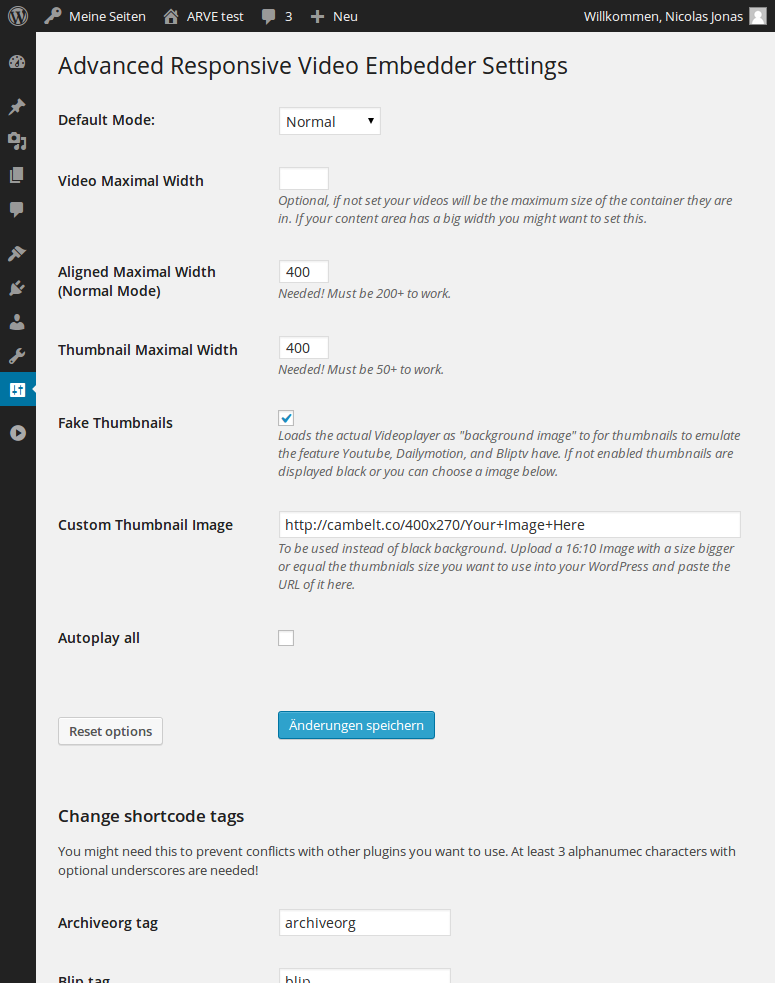
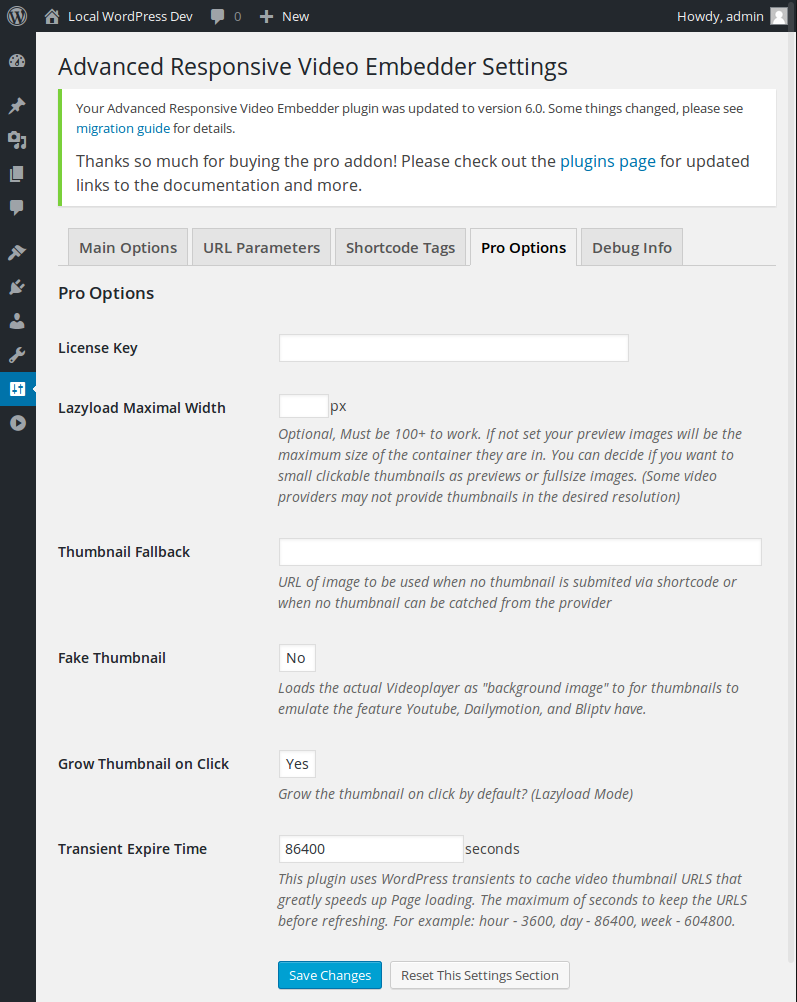
add grow ...

diff --git a/admin/advanced-responsive-video-embedder-admin.js b/admin/advanced-responsive-video-embedder-admin.js
@@ -21,7 +21,9 @@
 			'autoplay'     : '',
 			'aspect_ratio' : '',
 			'maxwidth'     : '',
-			'parameters'   : ''
+			'parameters'   : '',
+			'thumbnail'    : '',
+			'grow'         : '',
 		};
 
 		var shortcode = '[' + $('#arve-provider').val();
@@ -157,7 +159,8 @@
 		$('#arve-id').val( response.videoid );
 	});
 
-	$( '#arve-url, #arve-provider, #arve-id, #arve-maxwidth, #arve-mode, #arve-align, #arve-autoplay, #arve-aspect_ratio, #arve-parameters' ).bind( 'keyup mouseup change', function() {
+	$( '#arve-url, #arve-provider, #arve-id, #arve-maxwidth, #arve-mode, #arve-align, #arve-autoplay, #arve-aspect_ratio, #arve-parameters, #arve-grow, #arve-thumbnail' )
+		.bind( 'keyup mouseup change', function() {
 
 		var shortcode = create_shortcode();
 

diff --git a/public/class-advanced-responsive-video-embedder-public.php b/public/class-advanced-responsive-video-embedder-public.php
@@ -294,6 +294,7 @@ class Advanced_Responsive_Video_Embedder_Public {
 			'start'        => null, # Only used for vimeo
 			'thumbnail'    => null,
 			'link_text'    => null,
+            'grow'         => null,
 		);
 		
 		$atts = shortcode_atts( $shortcode_atts_defaults, $atts, $this->options['shortcodes'][ $provider ] );
@@ -648,21 +649,22 @@ class Advanced_Responsive_Video_Embedder_Public {
 		}
 
 		$output = apply_filters( 'arve_output', '', array(
-			'aspect_ratio'                => $aspect_ratio,
-			'iframe'                      => $iframe,
-			'autoplay'                    => $autoplay,
-			'maxwidth'                    => $maxwidth,
 			'align'                       => $align,
+			'aspect_ratio'                => $aspect_ratio,
+			'autoplay'                    => $autoplay,
+			'grow'                        => $grow,
 			'id'                          => $id,
-			'mode'                        => $mode, 
-			'provider'                    => $provider,
-			'properties'                  => $properties,
-			'thumbnail'                   => $thumbnail,
+			'iframe'                      => $iframe,
 			'link_text'                   => $link_text,
+			'maxwidth'                    => $maxwidth,
+			'mode'                        => $mode,
+			'object_params_autoplay_no'   => $object_params_autoplay_no,
+			'object_params_autoplay_yes'  => $object_params_autoplay_yes,
+			'properties'                  => $properties,
+			'provider'                    => $provider,
+			'thumbnail'                   => $thumbnail,
 			'url_autoplay_no'             => $url_autoplay_no, 
 			'url_autoplay_yes'            => $url_autoplay_yes,
-			'object_params_autoplay_yes'  => $object_params_autoplay_yes,
-			'object_params_autoplay_no'   => $object_params_autoplay_no,
 		) );
 
 		if ( is_wp_error( $output ) ) {
@@ -702,7 +704,7 @@ class Advanced_Responsive_Video_Embedder_Public {
 	}
 	
 	public function wrappers( $inner, $args ) {
-	
+		
 		$promote_link = sprintf(
 			'<a href="%s" title="%s" class="arve-promote-link">%s</a>',
 			esc_url( 'https://nextgenthemes.com/download/advanced-responsive-video-embedder-pro/' ),
@@ -713,10 +715,11 @@ class Advanced_Responsive_Video_Embedder_Public {
 		$wrapper_style = $this->get_wrapper_style( $args['maxwidth'], $args['thumbnail'] );
 
 		$output = sprintf(
-			'<div id="video-%s" class="arve-wrapper %s" data-arve-mode="%s" %s itemscope itemtype="http://schema.org/VideoObject">',
+			'<div id="video-%s" class="arve-wrapper %s" data-arve-mode="%s" %s %s itemscope itemtype="http://schema.org/VideoObject">',
 			esc_attr( urlencode( $args['id'] ) ),
 			esc_attr( $args['align'] ),
 			esc_attr( $args['mode'] ),
+			( 'lazyload' === $args['mode'] ) ? sprintf( 'data-arve-grow="%s"', esc_attr( (string) $args['grow'] ) ) : '',
 			( $wrapper_style ) ? sprintf( ' style="%s"', esc_attr( $wrapper_style ) ) : ''
 		);
 		$output .= sprintf( '<div class="arve-embed-container" style="padding-bottom: %g%%">%s</div>', $args['aspect_ratio'], $inner );

diff --git a/admin/partials/advanced-responsive-video-embedder-admin-shortcode-dialog.php b/admin/partials/advanced-responsive-video-embedder-admin-shortcode-dialog.php
@@ -7,7 +7,7 @@
 			<?php _e('For Blip.tv, Videojug, Movieweb, Gametrailers, Yahoo!, Spike, Comedycentral and general iframe embed codes paste the embed code, for all others paste the URL! Ustream: If your Address bar URL not contains a number, click the Share->URL icons and paste that URL.', $this->plugin_slug ); ?>
 		</small>
 
-		<textarea id="arve-url" rows="4" value=""></textarea><br>
+		<textarea id="arve-url" rows="3" value=""></textarea><br>
 
 		<div class="arve-input-group">
 			<label for="arve-mode"><?php _e('Mode', $this->plugin_slug ); ?></label>
@@ -45,9 +45,23 @@
 			<label for="arve-aspect_ratio"><?php _e('Aspect ratio (4:3)', $this->plugin_slug ); ?></label>
 			<input type="text" id="arve-aspect_ratio" value="" />
 		</div>
+		
+		<div class="arve-input-group">
+			<label for="arve-grow"><?php _e('Grow on Click (Lazyload)', $this->plugin_slug ); ?></label>
+			<select id="arve-grow">
+				<option value=""></option>
+				<option value="yes"><?php _e('yes', $this->plugin_slug ); ?></option>
+				<option value="no"><?php _e('no', $this->plugin_slug ); ?></option>
+			</select>
+		</div>
 
 		<div class="clear"></div>
 
+		<div class="arve-input-group arve-input-group-full">
+			<label for="arve-thumbnail"><?php _e('Thumbnail', $this->plugin_slug ); ?></label>
+			<input type="text" id="arve-thumbnail" class="arve-input-full" value="" />
+		</div>
+		
 		<div class="arve-input-group arve-input-group-full">
 			<label for="arve-parameters"><?php _e('URL Parameters', $this->plugin_slug ); ?></label>
 			<input type="text" id="arve-parameters" class="arve-input-full" value="" />

diff --git a/advanced-responsive-video-embedder.php b/advanced-responsive-video-embedder.php
@@ -16,7 +16,7 @@
  * Plugin Name:       Advanced Responsive Video Embedder
  * Plugin URI:        https://nextgenthemes.com/plugins/advanced-responsive-video-embedder-pro/
  * Description:       Easy responsive video embeds via URL (like WordPress) or Shortcodes. Supports almost anything you can imagine.
- * Version:           6.1.1
+ * Version:           6.1.2
  * Author:            Nicolas Jonas
  * Author URI:        http://nico.onl
  * License:           GPL-3.0

diff --git a/includes/class-advanced-responsive-video-embedder.php b/includes/class-advanced-responsive-video-embedder.php
@@ -70,7 +70,7 @@ class Advanced_Responsive_Video_Embedder {
 
 		$this->plugin_slug = 'advanced-responsive-video-embedder';
 
-		$this->version = '6.1.1';
+		$this->version = '6.1.2';
 
 		$this->load_dependencies();
 		$this->set_locale();

diff --git a/README.md b/README.md
@@ -15,7 +15,7 @@ Please report issues on [community.nextgenthemes.com](https://community.nextgent
 * [Overview][1]
 * [Quick Introduction][2]
 * [Features][3]
-* [Additional Features with the Pro Addon][4]
+* [Pro Addon Features][4]
 * [Documentation][10]
 * [Tests & Examples][11]
 * [Github Page][21]
@@ -48,9 +48,10 @@ Please report issues on [community.nextgenthemes.com](https://community.nextgent
 
 * Feel good about yourself for helping me support my long time work on this plugin. Tons of hours, weekends ... always worked on [improving](https://wordpress.org/plugins/advanced-responsive-video-embedder/changelog/) 3+ years.
 * Lazyload mode: Only load a preview image on pageload instead of the Video itself, makes you site load faster.
-* Lazyload -> Lightbox: Shows the Video in a Lightbox after clicking a preview image.
+* lazyload -> Lightbox Shows the Video in a Lightbox after clicking a preview image.
 * Lazyload -> HTML5 Fullscreen: (experimental) This is a dream come true for me. Be aware that this has a Issue of going fullsceen a 2nd time from within fullscreen and fullscreen Buttons not working as expected.
 * Lazyload -> Half Screen Sticky: (experimental) Video that fills about half the screen/window and lets users continue to scroll and read the site, start writing a comment ... while watching a video. This relies on modern HTML5 features (calc, vw + vh) and may not work everywhere.
+* Link -> Lightbox: Make 
 
 ### Supported providers ###
 
@@ -117,7 +118,7 @@ You can open up a lightbox with a normal link [youtube id="Q6goNzXrmFs" mode="li
 `[[youtube id="Q6goNzXrmFs" mode="link-lightbox" link_text="click me"]]`
 <div class="clearfix"></div>
 
-We can also center videos and open then inside a Colorbox. This requires the jQuery Colorbox plugin to be installed. This site uses theme 3.
+We can also center videos and open then inside a Lightboxbox.
 
 `[[youtube id="Q6goNzXrmFs" mode="lazyload-lightbox" maxwidth="600" align="center"]]`
 
@@ -194,10 +195,25 @@ This plugins embed is considered as 'custom player' by YouTube so you have to pa
 
 ## Screenshots ##
 
-1. In action
-2. Options page
+1. Main Options
+2. Pro Options
+3. Features
 
 ## Changelog ##
+
+### Pro Addon 1.1.5 ###
+
+* New: Added setting and parameter grow="yes/no" to controll the grow-on-click behaviour that was introduced in 6.0 to your liking.
+
+### 6.1.2 ###
+
+* Improved: Added thumbnail and grow parameters to the Shortcode Creator Dialog.
+* Improved: Updated sceenshots.
+
+### Pro Addon 1.1.3 ###
+
+* Improved: link-linghtbox mode does not force a newline for the link anymore.
+* Fix: Autoplaying in Background when navigating back in browser.
 
 ### Pro Addon 1.1.0 ###
 

diff --git a/readme/description-features.md b/readme/description-features.md
@@ -18,6 +18,7 @@
 
 * Feel good about yourself for helping me support my long time work on this plugin. Tons of hours, weekends ... always worked on [improving](https://wordpress.org/plugins/advanced-responsive-video-embedder/changelog/) 3+ years.
 * Lazyload mode: Only load a preview image on pageload instead of the Video itself, makes you site load faster.
-* Lazyload -> Lightbox: Shows the Video in a Lightbox after clicking a preview image.
+* lazyload -> Lightbox Shows the Video in a Lightbox after clicking a preview image.
 * Lazyload -> HTML5 Fullscreen: (experimental) This is a dream come true for me. Be aware that this has a Issue of going fullsceen a 2nd time from within fullscreen and fullscreen Buttons not working as expected.
 * Lazyload -> Half Screen Sticky: (experimental) Video that fills about half the screen/window and lets users continue to scroll and read the site, start writing a comment ... while watching a video. This relies on modern HTML5 features (calc, vw + vh) and may not work everywhere.
+* Link -> Lightbox: Make 

diff --git a/CHANGELOG.md b/CHANGELOG.md
@@ -1,5 +1,19 @@
 ## Changelog ##
 
+### Pro Addon 1.1.5 ###
+
+* New: Added setting and parameter grow="yes/no" to controll the grow-on-click behaviour that was introduced in 6.0 to your liking.
+
+### 6.1.2 ###
+
+* Improved: Added thumbnail and grow parameters to the Shortcode Creator Dialog.
+* Improved: Updated sceenshots.
+
+### Pro Addon 1.1.3 ###
+
+* Improved: link-linghtbox mode does not force a newline for the link anymore.
+* Fix: Autoplaying in Background when navigating back in browser.
+
 ### Pro Addon 1.1.0 ###
 
 * Fix: Various issues reguarding lightbox mode.

diff --git a/readme/description-pro-addon-demo.md b/readme/description-pro-addon-demo.md
@@ -9,7 +9,7 @@ You can open up a lightbox with a normal link [youtube id="Q6goNzXrmFs" mode="li
 `[[youtube id="Q6goNzXrmFs" mode="link-lightbox" link_text="click me"]]`
 <div class="clearfix"></div>
 
-We can also center videos and open then inside a Colorbox. This requires the jQuery Colorbox plugin to be installed. This site uses theme 3.
+We can also center videos and open then inside a Lightboxbox.
 
 `[[youtube id="Q6goNzXrmFs" mode="lazyload-lightbox" maxwidth="600" align="center"]]`
 

diff --git a/readme/description-links.md b/readme/description-links.md
@@ -2,7 +2,7 @@
 * [Overview][1]
 * [Quick Introduction][2]
 * [Features][3]
-* [Additional Features with the Pro Addon][4]
+* [Pro Addon Features][4]
 * [Documentation][10]
 * [Tests & Examples][11]
 * [Github Page][21]

diff --git a/readme/screenshots.md b/readme/screenshots.md
@@ -1,4 +1,5 @@
 ## Screenshots ##
 
-1. In action
-2. Options page
+1. Main Options
+2. Pro Options
+3. Features
